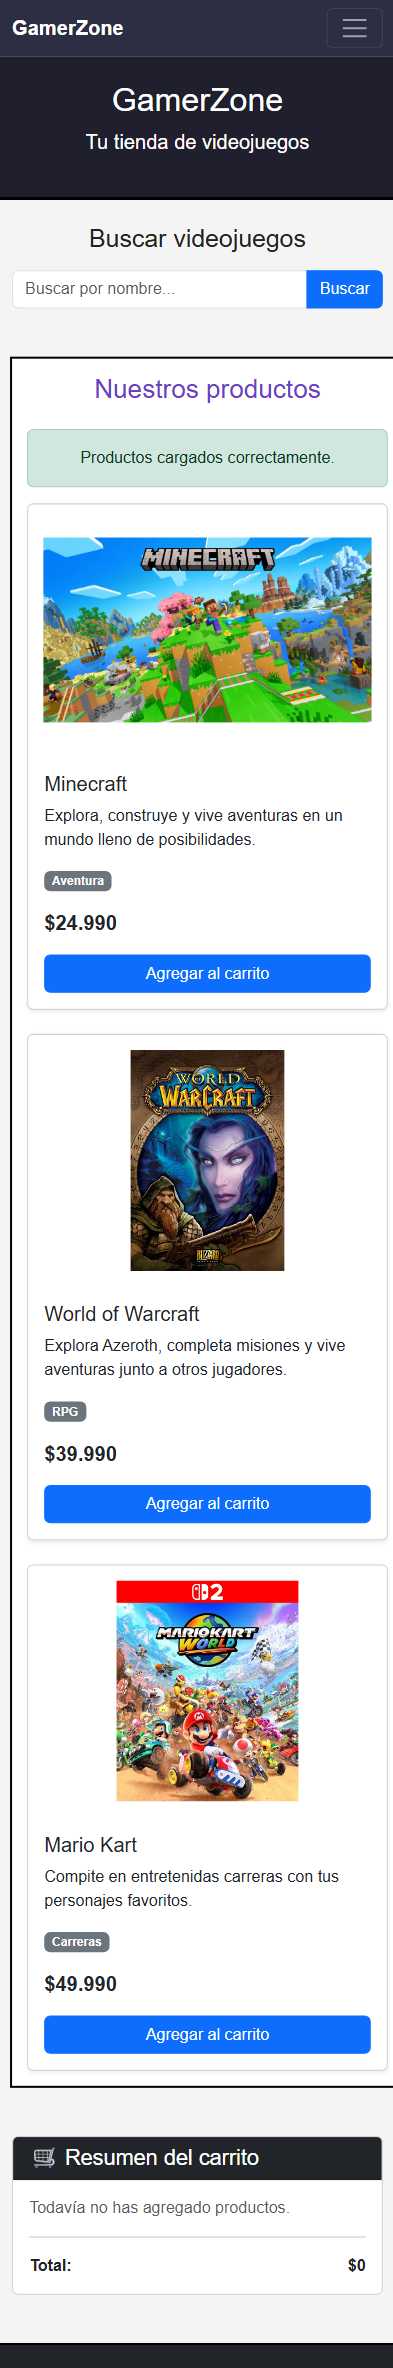
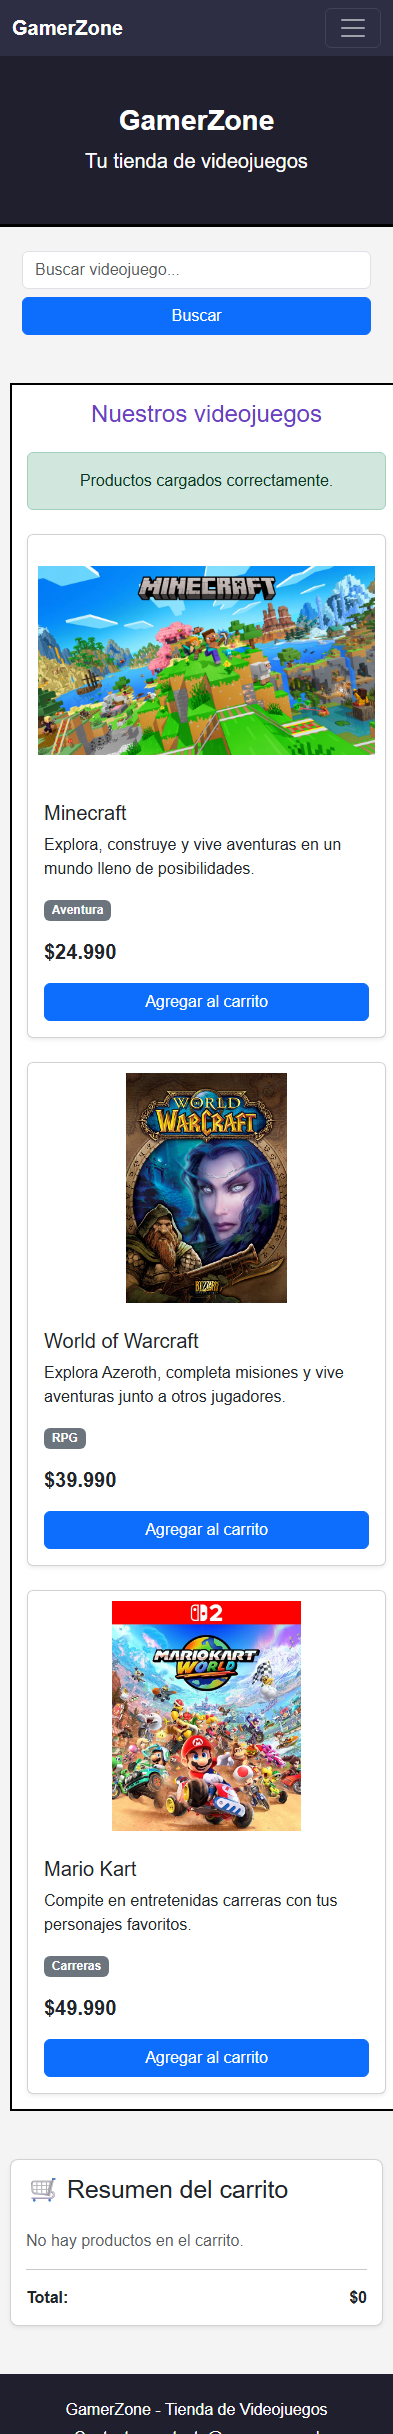
Finalizar Semana 6 y mejorar diseño responsive

diff --git a/assets/css/estilos.css b/assets/css/estilos.css
@@ -20,19 +20,6 @@ body {
     font-family: Arial, Helvetica, sans-serif;
 }
 
-/* Encabezado */
-header {
-    padding: 20px;
-    margin-bottom: 20px;
-    border-bottom: 3px solid black;
-    background-color: var(--color-principal);
-    color: white;
-}
-
-header h1 {
-    font-size: 32px;
-}
-
 /* Barra de navegación */
 .navbar {
     background-color: var(--color-secundario) !important;
@@ -52,21 +39,20 @@ button:focus-visible {
     outline-offset: 3px;
 }
 
-/* Carrusel de Bootstrap */
-#carruselGamerZone {
-    max-width: 1200px;
-    margin: 20px auto;
+/* Encabezado principal */
+#inicio {
+    background-color: var(--color-principal) !important;
+    color: white;
+    border-bottom: 3px solid black;
+    margin-bottom: 20px;
 }
 
-#carruselGamerZone .carousel-item img {
-    width: 100%;
-    height: 450px;
-    object-fit: contain;
+#inicio h1 {
+    font-size: 32px;
 }
 
 /* Sección de productos */
 #productos {
-    margin: 20px;
     padding: 20px;
     border: 2px solid black;
     background-color: white;
@@ -85,28 +71,15 @@ button:focus-visible {
     padding: 15px;
 }
 
+/* Carrito */
+#carrito .card {
+    border-radius: 8px;
+}
+
 /* Pie de página */
 #contacto {
-    margin-top: 20px;
-    padding: 20px;
-    border-top: 2px solid black;
-    background-color: var(--color-principal);
+    background-color: var(--color-principal) !important;
     color: white;
-
-    display: flex;
-    flex-wrap: wrap;
-    align-items: center;
-    justify-content: space-between;
-    gap: 10px 20px;
-}
-
-#contacto h2 {
-    width: 100%;
-    margin-bottom: 10px;
-}
-
-#contacto p {
-    margin: 0;
 }
 
 #contacto a {

diff --git a/assets/css/estilos-movil.css b/assets/css/estilos-movil.css
@@ -6,36 +6,53 @@
         overflow-x: hidden;
     }
 
-    /* Encabezado centrado en dispositivos móviles */
-    header {
+    /* Encabezado */
+    #inicio {
         text-align: center;
+        padding-left: 15px;
+        padding-right: 15px;
     }
 
-    /* Ajuste de la sección de productos */
+    #inicio h1 {
+        font-size: 28px;
+    }
+
+    /* Buscador */
+    #form-busqueda {
+        padding-left: 10px;
+        padding-right: 10px;
+    }
+
+    /* Sección de productos */
     #productos {
         margin: 10px;
         padding: 15px;
     }
 
-    /* Carrusel adaptado a pantallas pequeñas */
-    #carruselGamerZone {
-        margin: 10px auto;
+    #productos h2 {
+        font-size: 24px;
     }
 
-    #carruselGamerZone .carousel-item img {
-        height: 280px;
-        object-fit: contain;
-    }
-
-    /* Imágenes de las tarjetas en dispositivos móviles */
+    /* Imágenes de las tarjetas */
     .card-img-top {
         height: 250px;
         object-fit: contain;
+        padding: 10px;
     }
 
-    /* Pie de página en dispositivos móviles */
+    /* Carrito */
+    #carrito {
+        padding-left: 10px;
+        padding-right: 10px;
+    }
+
+    #carrito .card-body {
+        padding: 15px;
+    }
+
+    /* Pie de página */
     #contacto {
-        flex-direction: column;
-        align-items: flex-start;
+        text-align: center;
+        padding: 20px 15px;
     }
 }

diff --git a/assets/css/estilos-tablet.css b/assets/css/estilos-tablet.css
@@ -1,10 +1,26 @@
 /* Diseño para tablets */
 @media (min-width: 601px) and (max-width: 991px) {
 
-    /* Ajuste del carrusel para tablets */
-    #carruselGamerZone .carousel-item img {
-        height: 350px;
+    /* Encabezado */
+    #inicio {
+        padding-left: 20px;
+        padding-right: 20px;
+    }
+
+    /* Sección de productos */
+    #productos {
+        padding: 20px;
+    }
+
+    /* Imágenes de las tarjetas */
+    .card-img-top {
+        height: 260px;
         object-fit: contain;
     }
 
+    /* Carrito */
+    #carrito {
+        padding-left: 20px;
+        padding-right: 20px;
+    }
 }
